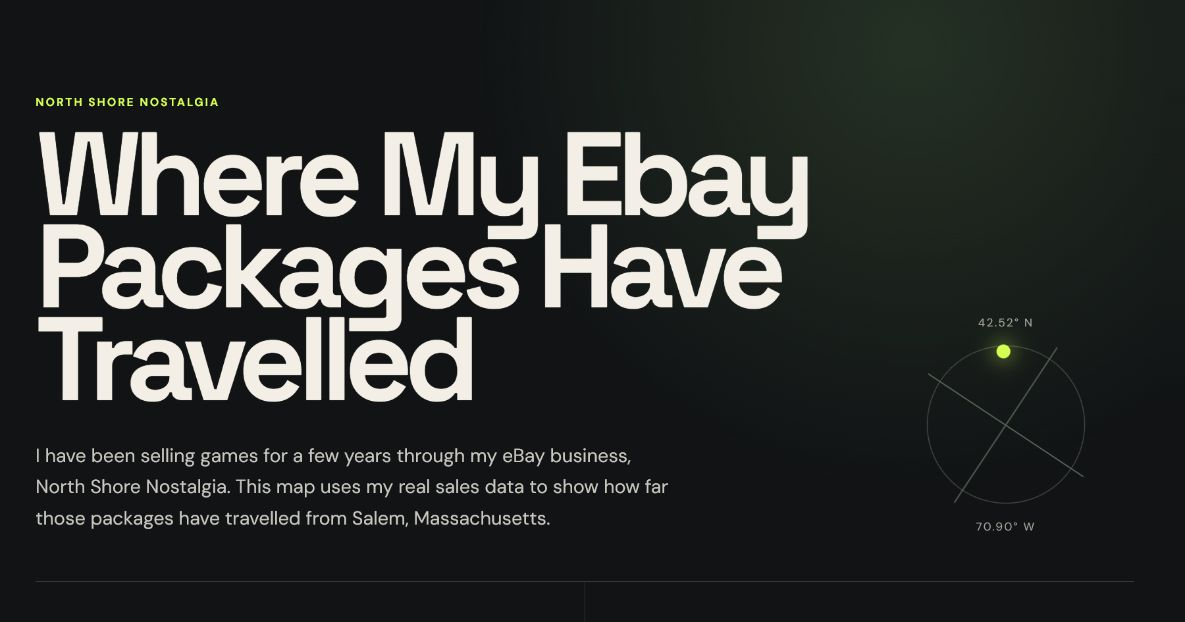
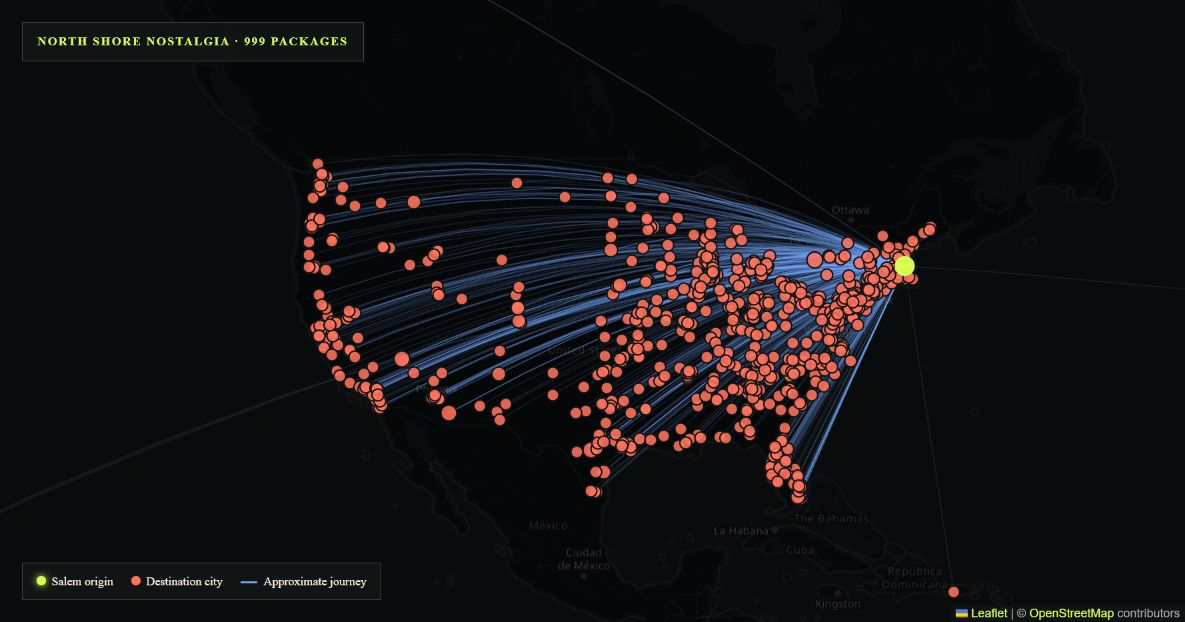
Show shipment map on portfolio card

diff --git a/js/projects.js b/js/projects.js
@@ -237,7 +237,7 @@ const projects = [
         description: "A portfolio piece built from my own eBay business, North Shore Nostalgia. The project takes real sales history for used games, strips it down to a privacy-safe public dataset, geocodes destinations only to city and town centers, and maps how far packages have travelled from Salem, Massachusetts. The site is a designed Leaflet flow map with filters, package and mileage stats, longest-journey callouts, and a scheduled GitHub Actions workflow that can pull new eBay orders when API credentials are configured. The raw order data stays private; the public dataset contains only generalized destinations, sale month, game titles, quantities, and approximate city-to-city distance.",
         tools: ["Leaflet", "Python", "Nominatim", "eBay Fulfillment API", "GitHub Actions", "GitHub Pages"],
         year: "2026",
-        thumb: "images/projects/where-games-go-thumb.png",
+        thumb: "images/projects/where-games-go-thumb.png?v=map-1",
         liveUrl: "https://mapzimus.github.io/where-the-games-go/",
         repoUrl: "https://github.com/mapzimus/where-the-games-go"
     },